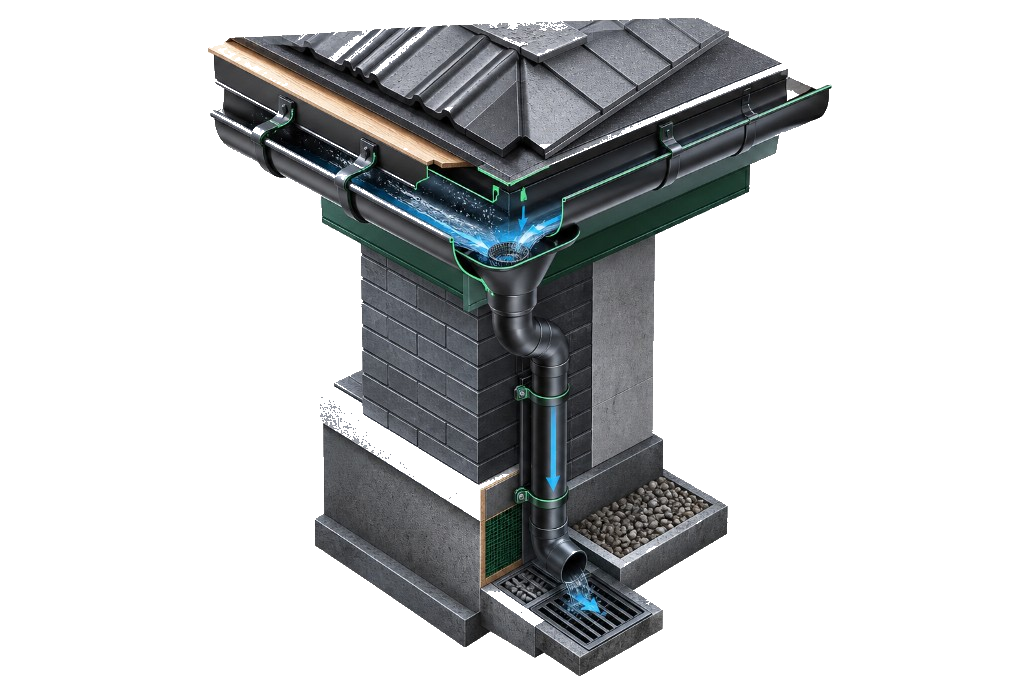
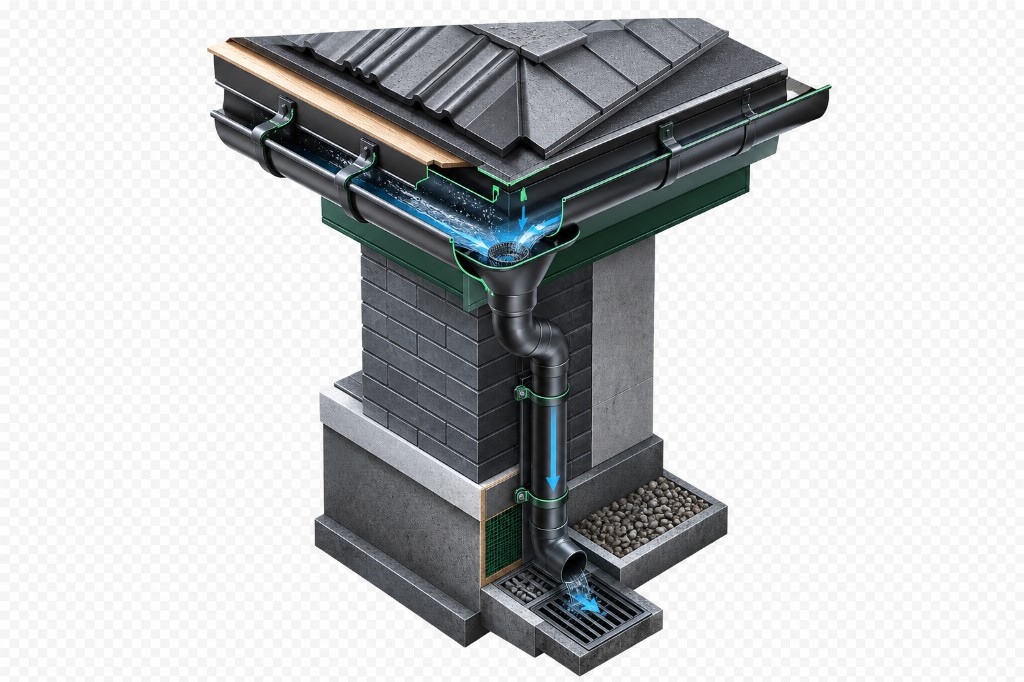
fix(frontend): вернуть оригинальные схемы опций без автообработки фона

diff --git a/frontend/src/components/construction/project-calculator-catalog-options.tsx b/frontend/src/components/construction/project-calculator-catalog-options.tsx
@@ -276,9 +276,9 @@ function OptionRow({
             {imageUrl?.trim() ? (
               <div
                 className={cn(
-                  "relative overflow-hidden rounded-lg border border-[var(--border)]",
+                  "relative overflow-hidden rounded-lg",
                   isCalculatorOptionDiagramUrl(imageUrl)
-                    ? "aspect-square bg-[var(--bg)] p-1.5 sm:p-2"
+                    ? "aspect-square bg-transparent"
                     : "aspect-[4/3] bg-[var(--stone)]",
                 )}
               >
